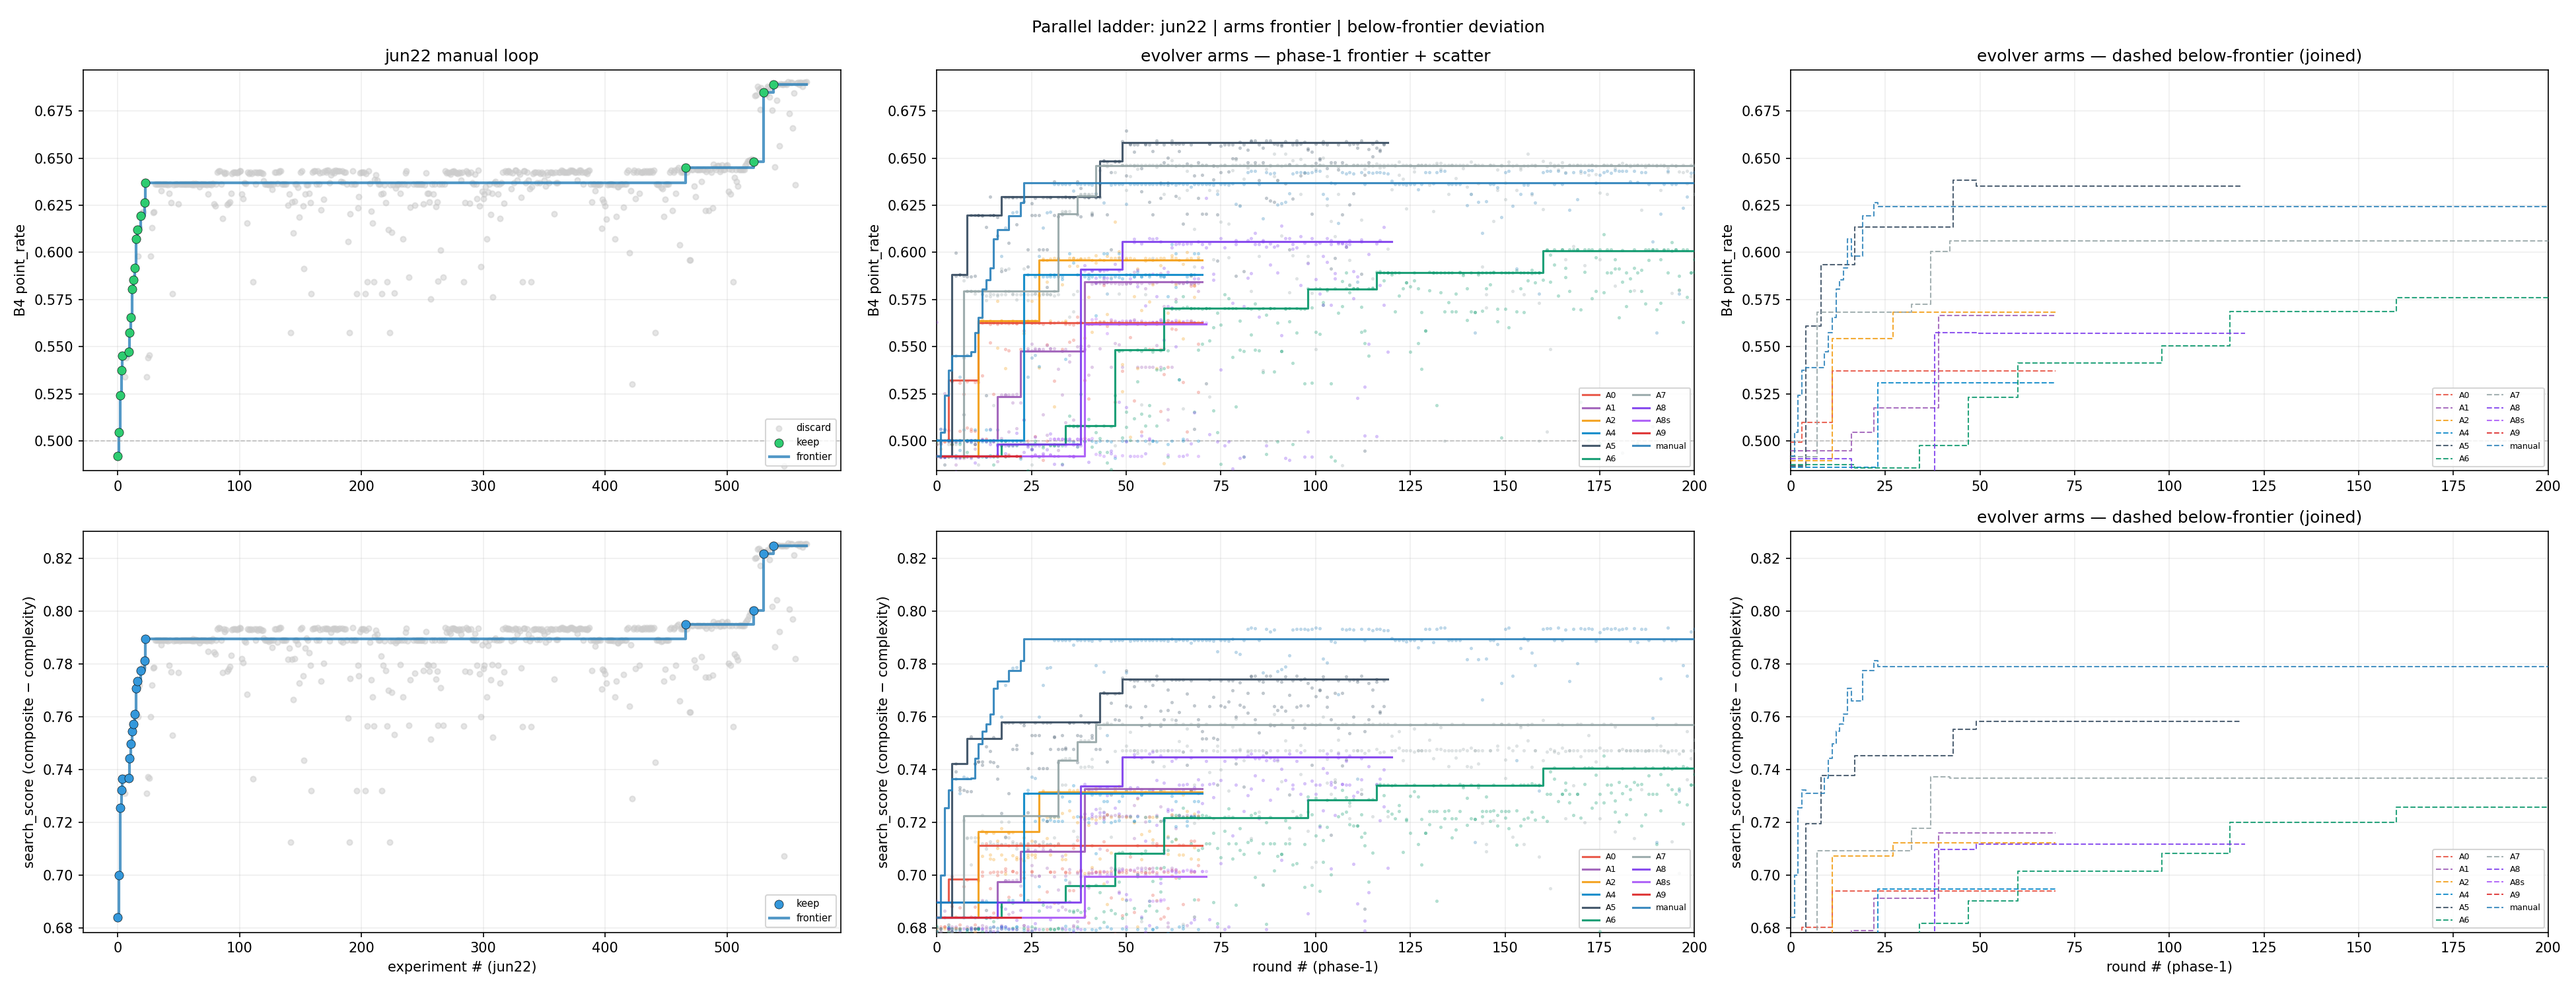
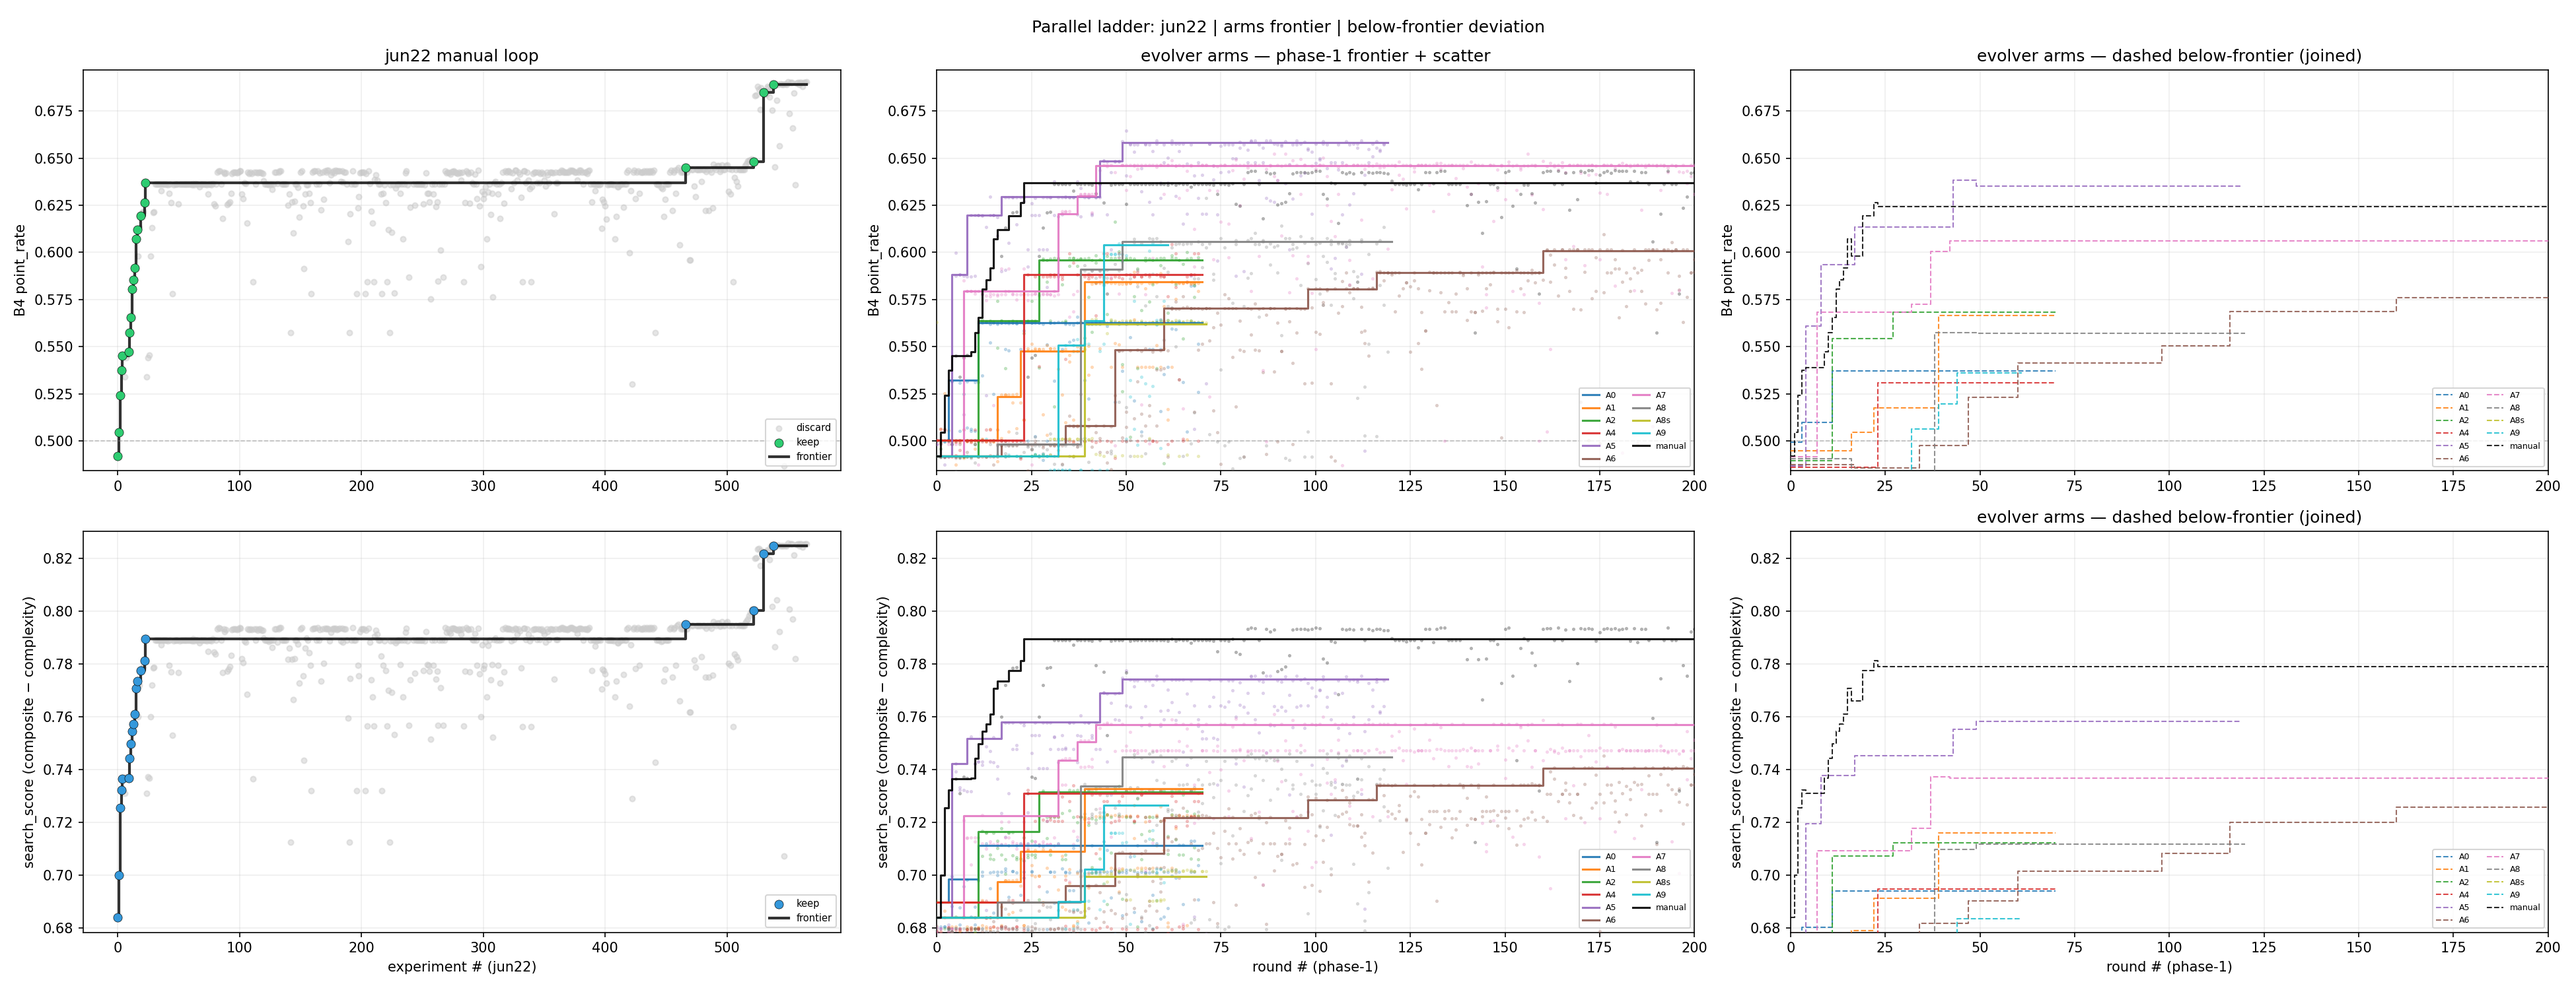
Update progress.png

diff --git a/scripts/overlay_ladder_progress.py b/scripts/overlay_ladder_progress.py
@@ -22,6 +22,7 @@ import subprocess
 import sys
 from pathlib import Path
 
+import matplotlib.colors as mcolors
 import matplotlib.pyplot as plt
 import numpy as np
 import pandas as pd
@@ -45,11 +46,11 @@ COL2_LEGACY_ARMS = ('A6', 'A7')
 MANUAL_LABEL = 'manual'
 MANUAL_X_MAX = ARM_X_MAX
 
-COLORS = {
-    'jun22': '#2980b9',
-    'A0': '#e74c3c', 'A1': '#9b59b6', 'A2': '#f39c12',
-    'A4': '#0284c7', 'A5': '#34495e', 'A6': '#059669', 'A7': '#95a5a6', 'A8': '#7c3aed', 'A8s': '#a855f7', 'A9': '#dc2626',
-}
+_TAB10 = [mcolors.to_hex(plt.cm.tab10(i)) for i in range(10)]
+_ARM_ORDER = ('A0', 'A1', 'A2', 'A4', 'A5', 'A6', 'A7', 'A8', 'A8s', 'A9')
+COLORS = {arm: _TAB10[i] for i, arm in enumerate(_ARM_ORDER)}
+COLORS['manual'] = '#000000'
+COLORS['jun22'] = '#000000'
 
 
 def load_reference(path_spec: str) -> pd.DataFrame:
@@ -155,7 +156,7 @@ def jun22_as_arm(
 
 def _arm_color(label: str) -> str:
     if label == MANUAL_LABEL:
-        return COLORS['jun22']
+        return COLORS['manual']
     return COLORS.get(label.split('_')[0], '#333333')
 
 

diff --git a/scripts/ladder_lib.py b/scripts/ladder_lib.py
@@ -1194,7 +1194,7 @@ def prepare_phase1_continue(
 
     cfg_path = wt / 'evolve/config.json'
     cfg = json.loads(cfg_path.read_text(encoding='utf-8'))
-    cfg['max_rounds'] = max(max_rounds, int(cfg.get('max_rounds') or 0) + 1)
+    cfg['max_rounds'] = max(max_rounds, int(cfg.get('max_rounds') or 0))
     if disable_convergence:
         cfg.setdefault('convergence', {})['enabled'] = False
     write_json(cfg_path, cfg)
